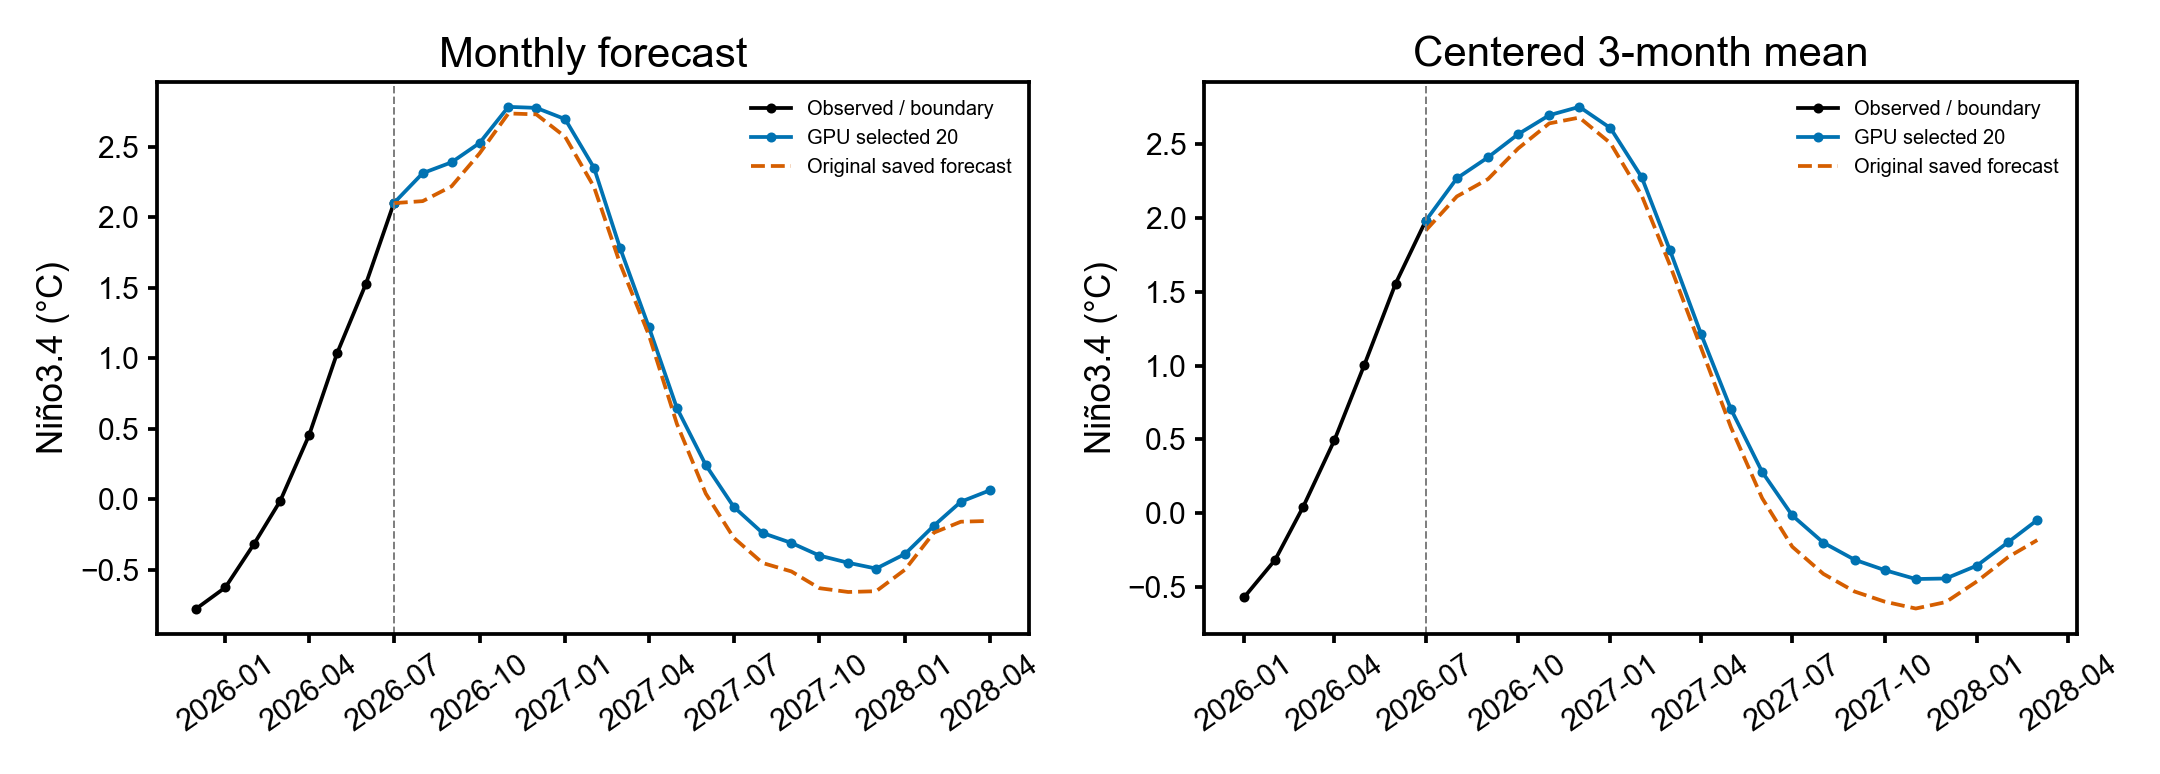
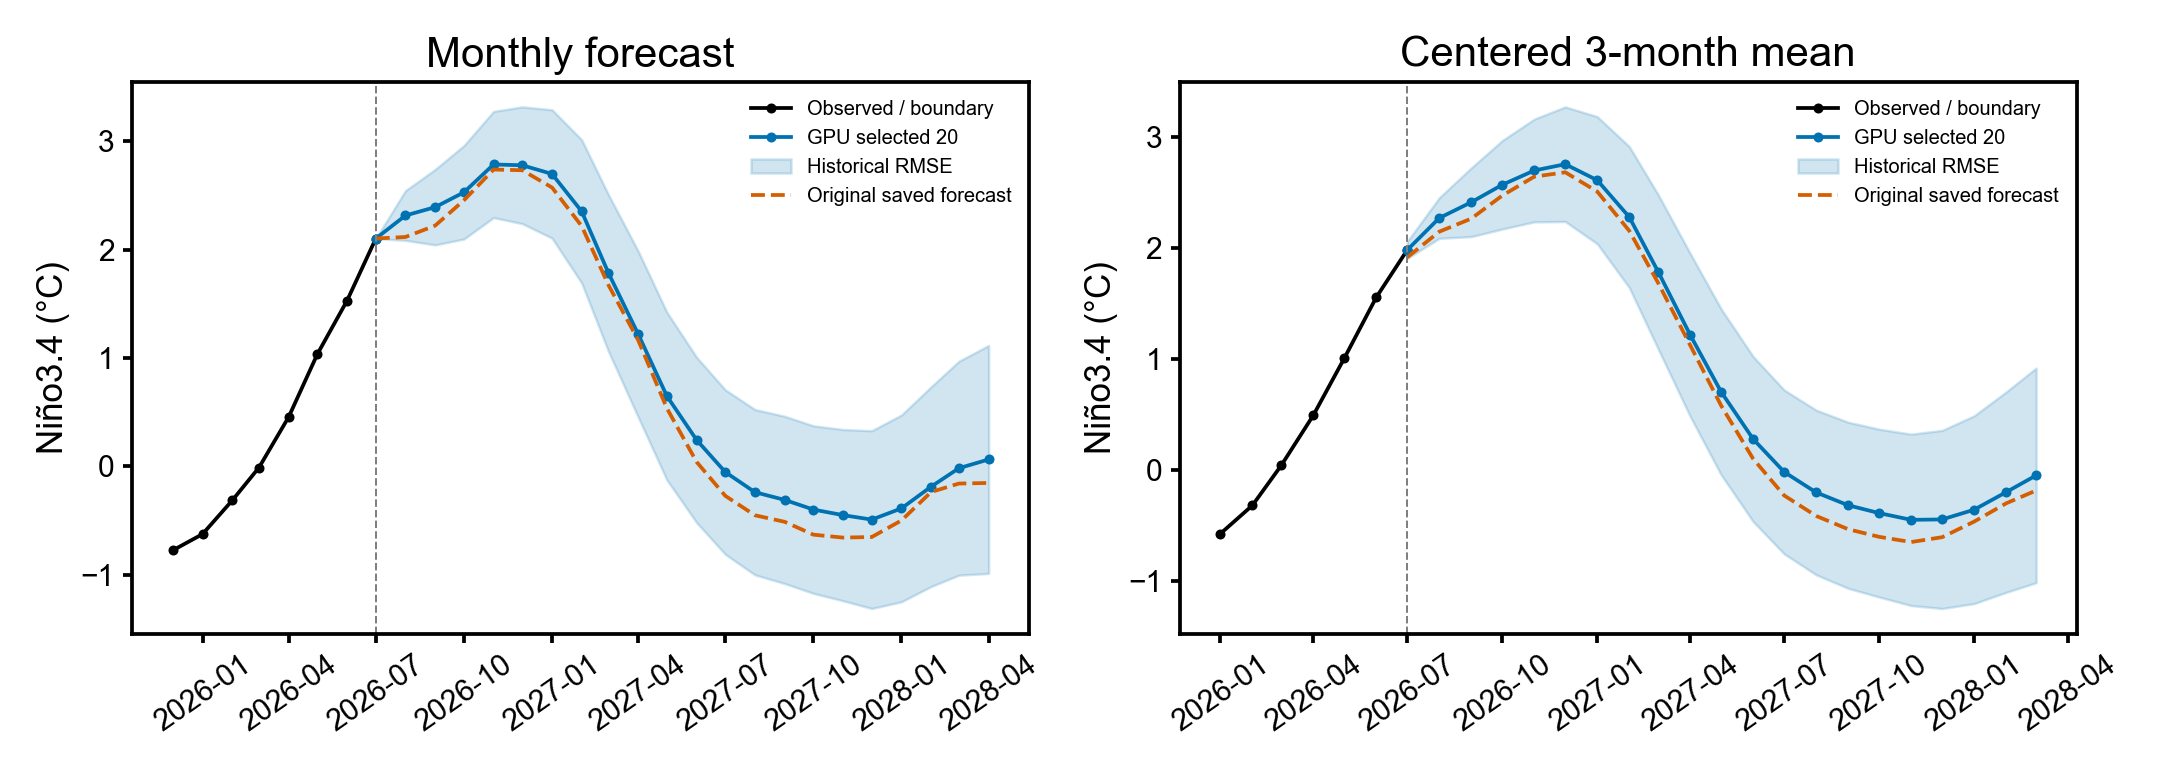
Support minimal model release without external JSON files

diff --git a/forecast/forecast_real_time_v3.py b/forecast/forecast_real_time_v3.py
@@ -16,13 +16,25 @@ ROOT = Path(__file__).resolve().parents[1]
 sys.path.insert(0, str(ROOT))
 from RCENSO import get_RCTP, ndforecast_skill, standardize_time_to_month_start
 from RCENSO_gpu import forecast_members
-from train_gpu import train, figures, centered_forecast_rmse
+from train_gpu import train, figures, centered_forecast_rmse, benchmark_report
 
 
 def run(benchmark_dir, batch_size=2, output=None):
     benchmark_dir = Path(benchmark_dir).resolve()
-    selection = json.loads((benchmark_dir/'selection.json').read_text(encoding='utf-8'))
-    report = json.loads((benchmark_dir/'results.json').read_text(encoding='utf-8'))
+    out = Path(output).resolve() if output else ROOT/'forecast/desn_forecast_v3_2026-07'
+    checkpoint = out/'models/selected_members.pkl'
+    saved = None
+    started = time.perf_counter()
+    if checkpoint.exists():
+        with checkpoint.open('rb') as f:
+            saved = pickle.load(f)
+    if (benchmark_dir/'selection.json').exists():
+        selection = json.loads((benchmark_dir/'selection.json').read_text(encoding='utf-8'))
+    elif saved is not None:
+        selection = saved['manifest']['selection']
+    else:
+        with (benchmark_dir/'models/benchmark_members.pkl').open('rb') as f:
+            selection = pickle.load(f)['selection']
     configs = selection['configs']
     if len(configs) != 20 or len(selection['indices']) != 20 or len(set(selection['indices'])) != 20 or batch_size < 1:
         raise ValueError('Exactly 20 distinct selected members and a positive batch size are required')
@@ -37,7 +49,6 @@ def run(benchmark_dir, batch_size=2, output=None):
     history = history_ds.to_array().values.T
     if not np.isfinite(history).all():
         raise ValueError('Training data contains missing or non-finite climate indices')
-    out = Path(output).resolve() if output else ROOT/'forecast/desn_forecast_v3_2026-07'
     out.mkdir(parents=True, exist_ok=True)
     model_dir = out/'models'; model_dir.mkdir(exist_ok=True)
     manifest = dict(source_sha256=hashlib.sha256(source.read_bytes()).hexdigest(),
@@ -48,11 +59,7 @@ def run(benchmark_dir, batch_size=2, output=None):
     if manifest_file.exists() and json.loads(manifest_file.read_text(encoding='utf-8')) != manifest:
         raise RuntimeError('Output contains a different model selection; choose a new output directory')
     manifest_file.write_text(json.dumps(manifest, indent=2), encoding='utf-8')
-    checkpoint = model_dir/'selected_members.pkl'
-    started = time.perf_counter()
-    if checkpoint.exists():
-        with checkpoint.open('rb') as f:
-            saved = pickle.load(f)
+    if saved is not None:
         if saved['manifest'] != manifest or len(saved['selected_models']) != 20:
             raise ValueError('Saved checkpoint does not match the requested selection and training period')
         selected_models = saved['selected_models']
@@ -79,6 +86,11 @@ def run(benchmark_dir, batch_size=2, output=None):
     with np.load(benchmark_dir/'independent_predictions.npz') as f:
         historical_pred = f['predictions'].mean(axis=0)
         historical_obs = f['observations']
+    if (benchmark_dir/'results.json').exists():
+        report = json.loads((benchmark_dir/'results.json').read_text(encoding='utf-8'))
+    else:
+        report = benchmark_report(historical_pred, historical_obs)
+        report['selection_uses_benchmark'] = True
     _, monthly_rmse = ndforecast_skill(historical_pred, historical_obs, wl=0, ismv3=False)
     centered_rmse = centered_forecast_rmse(historical_pred, historical_obs)
     old_path = ROOT/'forecast/desn_forecast_2026-07/desn_forecast_2026-07.nc'
@@ -112,7 +124,7 @@ def run(benchmark_dir, batch_size=2, output=None):
     frame['Nino34_centered_3month'] = path.rolling(3, center=True).mean().values[1:]
     frame.index.name = 'time'; frame.to_csv(out/'forecast_mean.csv')
     (out/'results.json').write_text(json.dumps(summary, indent=2), encoding='utf-8')
-    figures(out, report, latest, original, mean)
+    figures(out, report, latest, original, mean, monthly_rmse, centered_rmse)
     print('V3 saved:', out, summary['first_month'], flush=True)
     return summary
 

diff --git a/train_gpu.py b/train_gpu.py
@@ -85,6 +85,20 @@ def skill(pred, obs):
                 mean_rmse_1_19=float(rmse[1:20].mean()))
 
 
+def benchmark_report(pred, obs):
+    with open(ROOT/'data/sourcedata/fs_ds_to_plot_end.pickle', 'rb') as f:
+        baseline = pickle.load(f)
+    selected = skill(pred, obs)
+    diff = np.asarray(selected['correlation'])[1:20] - baseline['DESN'][1:20]
+    return dict(selected_test=selected, baseline_desn=baseline['DESN'].tolist(),
+                baseline_esn=baseline['ESN'].tolist(),
+                parity=dict(mean_difference_1_19=float(diff.mean()), worst_lead_difference=float(diff.min()),
+                            long_mean_difference_12_19=float(diff[11:19].mean()),
+                            leads_within_0_01=int((diff >= -.01).sum()),
+                            pass_mean=bool(diff.mean() >= -.01), pass_every_lead=bool(diff.min() >= -.01),
+                            tolerance=.01))
+
+
 def centered_forecast_rmse(pred, obs):
     """Empirical error of centered forecast paths, retaining serial covariance."""
     steps = pred.shape[2]
@@ -120,7 +134,7 @@ def benchmark_figure(out, report):
     ax.legend(); fig.tight_layout(); fig.savefig(out/'benchmark_skill.png', dpi=180); plt.close(fig)
 
 
-def figures(out, report, latest, old_forecast, realtime):
+def figures(out, report, latest, old_forecast, realtime, monthly_rmse, centered_rmse):
     import matplotlib
     matplotlib.use('Agg')
     import matplotlib.pyplot as plt
@@ -138,6 +152,10 @@ def figures(out, report, latest, old_forecast, realtime):
             values = pd.Series(values).rolling(3, center=True).mean().values
         ax.plot(combined_dates[:len(history)], values[:len(history)], 'ko-', ms=3, label='Observed / boundary')
         ax.plot(combined_dates[len(history)-1:], values[len(history)-1:], 'o-', ms=3, color='#0072B2', label='GPU selected 20')
+        error = centered_rmse if centered else monthly_rmse
+        prediction = values[len(history)-1:]
+        ax.fill_between(dates, prediction-error, prediction+error, color='#0072B2', alpha=.18,
+                        label='Historical RMSE')
         if old_forecast is not None:
             old = np.r_[history, old_forecast[1:]]
             if centered:
@@ -224,7 +242,6 @@ def main():
 
     test = arrays(ds, '2002-01', '2023-12')
     test_tp = get_RCTP(test, steps=22, order=2)
-    test_preds = np.empty((20, len(test), 10, 22))
     benchmark_models = [None] * 20
     started = time.perf_counter()
     for indices, models in train(arrays(ds, '1958-01', '1999-12'), selected_configs, args.batch_size):
@@ -234,18 +251,8 @@ def main():
     # Use the same member grouping as a subsequent checkpoint reload.
     test_preds = forecast_members([item['esn'] for item in benchmark_models], test, test_tp, 22, args.batch_size)
     report['benchmark_seconds'] = time.perf_counter() - started
-    report['selected_test'] = skill(test_preds.mean(axis=0), test)
+    report.update(benchmark_report(test_preds.mean(axis=0), test))
     np.savez_compressed(out/'independent_predictions.npz', predictions=test_preds, observations=test)
-    with open(ROOT/'data/sourcedata/fs_ds_to_plot_end.pickle', 'rb') as f:
-        baseline = pickle.load(f)
-    report['baseline_desn'] = baseline['DESN'].tolist()
-    report['baseline_esn'] = baseline['ESN'].tolist()
-    diff = np.array(report['selected_test']['correlation'])[1:20] - baseline['DESN'][1:20]
-    report['parity'] = dict(mean_difference_1_19=float(diff.mean()), worst_lead_difference=float(diff.min()),
-                            long_mean_difference_12_19=float(diff[11:19].mean()),
-                            leads_within_0_01=int((diff >= -.01).sum()),
-                            pass_mean=bool(diff.mean() >= -.01), pass_every_lead=bool(diff.min() >= -.01),
-                            tolerance=.01)
     print('Benchmark validation after member selection:', report['selected_test'], 'parity', report['parity'], flush=True)
     report['versions'] = dict(python=sys.version, torch=torch.__version__, numpy=np.__version__)
     (out/'results.json').write_text(json.dumps(report, indent=2, ensure_ascii=False), encoding='utf-8')

diff --git a/test_gpu.py b/test_gpu.py
@@ -145,6 +145,57 @@ class GPUChecks(unittest.TestCase):
             np.testing.assert_allclose(forecast_members([model], ts, tp, 5),
                                        forecast_members([ref], ts, tp, 5), atol=2e-5, rtol=2e-5)
 
+    def test_v3_saved_models_without_external_json(self):
+        import hashlib
+        import io
+        import pickle
+        import tempfile
+        from contextlib import redirect_stdout
+        from pathlib import Path
+        from unittest.mock import patch
+        import pandas as pd
+        import xarray as xr
+        import train_gpu
+        from forecast import forecast_real_time_v3 as v3
+        from RCENSO_gpu import initialize_models
+
+        with tempfile.TemporaryDirectory(prefix='rcenso-v3-test-') as folder:
+            root = Path(folder).resolve()
+            self.assertEqual(root.parent, Path(tempfile.gettempdir()).resolve())
+            source = root/'forecast/oras5_indices_1958-2026-07.nc'
+            source.parent.mkdir()
+            names = ['Nino34', 'WWV'] + [f'mode{i}' for i in range(2, 10)]
+            data = np.random.default_rng(5).normal(size=(571, 10))
+            xr.Dataset({name: ('time', data[:, i]) for i, name in enumerate(names)},
+                       coords={'time': pd.date_range('1979-01-01', periods=571, freq='MS')}).to_netcdf(source)
+            h = dict(self.hypers(), units=4, output_dim=10, predict_increment=True)
+            models = initialize_models(h, list(range(19, 39)), 14, 10)
+            for model in models:
+                model.Wout = np.zeros((5, 10))
+            selection = dict(indices=list(range(20)), configs=[dict(deep=False, increment=True, seed=m.seed) for m in models])
+            manifest = dict(source_sha256=hashlib.sha256(source.read_bytes()).hexdigest(),
+                            selection=selection, train_start='1979-01', train_end='2026-07',
+                            mode_names=names, forecast_steps=21, forecast_noise=False, tp_order=2)
+            output = root/'forecast/desn_forecast_v3_2026-07'
+            (output/'models').mkdir(parents=True)
+            with (output/'models/selected_members.pkl').open('wb') as f:
+                pickle.dump(dict(manifest=manifest, selected_models=[dict(esn=m) for m in models]), f)
+            benchmark = root/'gpu_runs/benchmark'
+            benchmark.mkdir(parents=True)
+            np.savez(benchmark/'independent_predictions.npz', observations=data[:70],
+                     predictions=np.broadcast_to(data[None, :70, :, None], (20, 70, 10, 22)))
+            (root/'data/sourcedata').mkdir(parents=True)
+            with (root/'data/sourcedata/fs_ds_to_plot_end.pickle').open('wb') as f:
+                pickle.dump(dict(DESN=np.linspace(1., .2, 22), ESN=np.linspace(1., .1, 22)), f)
+            self.assertFalse(list(root.rglob('*.json')))
+            with patch.object(v3, 'ROOT', root), patch.object(train_gpu, 'ROOT', root), redirect_stdout(io.StringIO()):
+                summary = v3.run(benchmark)
+            self.assertEqual(summary['n_members'], 20)
+            with xr.open_dataset(output/'realtime_forecast.nc') as forecast:
+                np.testing.assert_allclose(forecast.forecast_mean, np.broadcast_to(data[-1], (22, 10)), atol=2e-6)
+                self.assertEqual(str(forecast.time.values[-1])[:10], '2028-04-01')
+            self.assertTrue((output/'first_month_diagnosis.png').is_file())
+
 
 if __name__ == '__main__':
     unittest.main()
